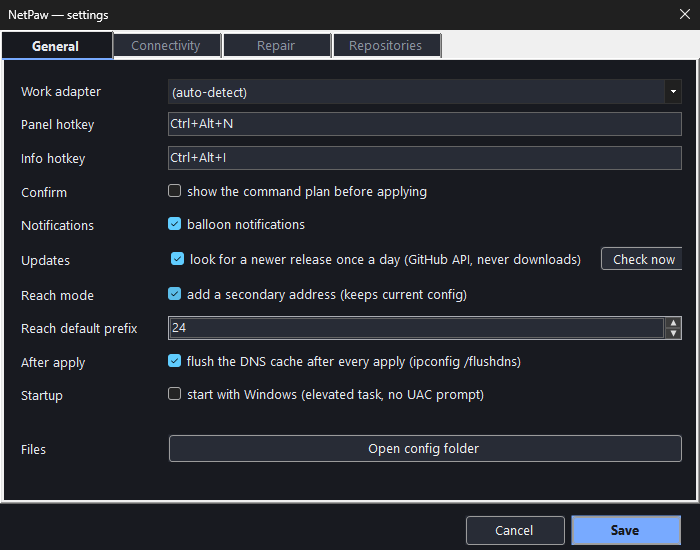
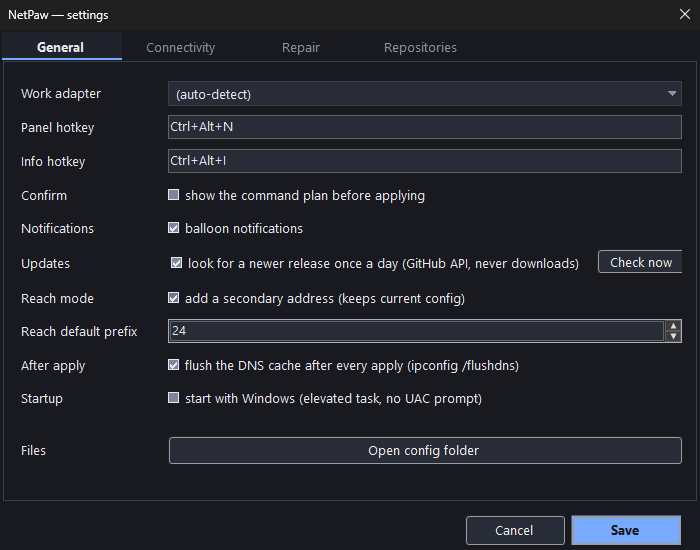
Dark chrome everywhere: title bars, tab strips, combo box, checkboxes, list scrollbars, spinners
- Native.Dress (DWM immersive dark title bar) is now applied to every
  themed form; it existed but nothing called it
- Theme.DarkTabControl paints the whole tab control (strip background and
  page frame were system-white); used by settings and the network map
- Theme.DarkComboBox owner-draws items and paints frame + arrow over the
  system button
- CheckBox/RadioButton flat with an opaque box and accent fill when
  checked (the transparent flat box rendered white)
- ListView gets the DarkMode_Explorer window theme (dark scrollbars);
  NumericUpDown spinner parts take the field colours
- README screenshots (settings, map) re-taken

diff --git a/src/NetPaw.Tray/Theme.cs b/src/NetPaw.Tray/Theme.cs
@@ -55,18 +55,26 @@ static class Theme
         c.Font = c.Font.Name == Base.Name && c.Font.Size == Base.Size ? c.Font : c switch { Label l when l.Font.Bold => c.Font, _ => Base };
         switch (c)
         {
-            case Form f: f.BackColor = Bg; f.ForeColor = Text; break;
+            case Form f:
+                f.BackColor = Bg; f.ForeColor = Text;
+                if (f.IsHandleCreated) Native.Dress(f); else f.HandleCreated += (_, _) => Native.Dress(f);
+                break;
             case Button b:
                 b.FlatStyle = FlatStyle.Flat; b.BackColor = Field; b.ForeColor = Text;
                 b.FlatAppearance.BorderColor = Border; b.FlatAppearance.MouseOverBackColor = Selection; b.FlatAppearance.MouseDownBackColor = Accent;
                 b.Cursor = Cursors.Hand; break;
             case TextBox t: t.BackColor = Field; t.ForeColor = Text; t.BorderStyle = BorderStyle.FixedSingle; break;
-            case NumericUpDown n: n.BackColor = Field; n.ForeColor = Text; n.BorderStyle = BorderStyle.FixedSingle; break;
+            case NumericUpDown n: n.BackColor = Field; n.ForeColor = Text; n.BorderStyle = BorderStyle.FixedSingle; foreach (Control part in n.Controls) { part.BackColor = Field; part.ForeColor = Text; } break;
+            case DarkComboBox: break;
             case ComboBox cb: cb.BackColor = Field; cb.ForeColor = Text; cb.FlatStyle = FlatStyle.Flat; break;
             case ListBox lb: lb.BackColor = Panel; lb.ForeColor = Text; lb.BorderStyle = BorderStyle.None; break;
             case ListView lv: DarkListView(lv); break;
-            case TabControl tc: DarkTabs(tc); break;
-            case CheckBox or RadioButton: c.ForeColor = Text; c.BackColor = Color.Transparent; break;
+            case DarkTabControl: break;
+            case CheckBox cb:
+                // Flat = the box is drawn with ForeColor/BackColor instead of the light system glyph.
+                // The box interior is BackColor (opaque, else it falls back to white) and CheckedBackColor; the tick is ForeColor.
+                cb.ForeColor = Text; cb.BackColor = Bg; cb.FlatStyle = FlatStyle.Flat; cb.FlatAppearance.BorderSize = 0; cb.FlatAppearance.CheckedBackColor = Accent; cb.FlatAppearance.MouseOverBackColor = Bg; cb.FlatAppearance.MouseDownBackColor = Bg; break;
+            case RadioButton rb: rb.ForeColor = Text; rb.BackColor = Bg; rb.FlatStyle = FlatStyle.Flat; rb.FlatAppearance.BorderSize = 0; rb.FlatAppearance.CheckedBackColor = Accent; break;
             case LinkLabel ll: ll.LinkColor = Accent; ll.ActiveLinkColor = Text; ll.VisitedLinkColor = Accent; ll.LinkBehavior = LinkBehavior.HoverUnderline; ll.BackColor = Color.Transparent; break;
             case Label l: if (l.ForeColor == SystemColors.ControlText) l.ForeColor = Text; l.BackColor = Color.Transparent; break;
             case GroupBox g: g.ForeColor = Muted; break;
@@ -83,6 +91,8 @@ static class Theme
     {
         lv.BackColor = Panel; lv.ForeColor = Text; lv.BorderStyle = BorderStyle.None;
         if (lv.OwnerDraw) return;
+        void Scrollbars() { try { Native.SetWindowTheme(lv.Handle, "DarkMode_Explorer", null); } catch (Exception ex) when (ex is DllNotFoundException or EntryPointNotFoundException) { } }
+        if (lv.IsHandleCreated) Scrollbars(); else lv.HandleCreated += (_, _) => Scrollbars();
         lv.OwnerDraw = true;
         lv.DrawColumnHeader += (_, e) =>
         {
@@ -100,19 +110,63 @@ static class Theme
         lv.ItemSelectionChanged += (_, e) => { if (e.Item?.Tag is SeparatorTag && e.IsSelected) e.Item.Selected = false; };
     }
 
-    /// <summary>TabControl ignores BackColor; owner-draw the tab strip so it matches the dark forms.</summary>
-    static void DarkTabs(TabControl tc)
+    /// <summary>
+    /// TabControl paints its strip background and the 3D page frame in system colours whatever the properties say
+    /// (owner-draw covers the tabs only). UserPaint takes the whole control: dark strip, accent underline, 1 px border.
+    /// </summary>
+    public sealed class DarkTabControl : TabControl
     {
-        if (tc.DrawMode == TabDrawMode.OwnerDrawFixed) return;
-        tc.DrawMode = TabDrawMode.OwnerDrawFixed; tc.SizeMode = TabSizeMode.Fixed; tc.ItemSize = new Size(Math.Max(tc.ItemSize.Width, 110), 26); tc.Padding = new Point(12, 4);
-        foreach (TabPage page in tc.TabPages) { page.BackColor = Bg; page.ForeColor = Text; page.UseVisualStyleBackColor = false; }
-        tc.DrawItem += (_, e) =>
+        public DarkTabControl()
         {
-            var selected = e.Index == tc.SelectedIndex;
-            using var bg = new SolidBrush(selected ? Bg : Field); e.Graphics.FillRectangle(bg, e.Bounds);
-            if (selected) { using var accent = new SolidBrush(Accent); e.Graphics.FillRectangle(accent, e.Bounds.Left, e.Bounds.Bottom - 2, e.Bounds.Width, 2); }
-            TextRenderer.DrawText(e.Graphics, tc.TabPages[e.Index].Text, selected ? new Font(Base, FontStyle.Bold) : Base, e.Bounds, selected ? Text : Muted, TextFormatFlags.HorizontalCenter | TextFormatFlags.VerticalCenter);
-        };
+            SetStyle(ControlStyles.UserPaint | ControlStyles.AllPaintingInWmPaint | ControlStyles.OptimizedDoubleBuffer | ControlStyles.ResizeRedraw, true);
+            SizeMode = TabSizeMode.Fixed; ItemSize = new Size(120, 28); Padding = new Point(12, 4);
+        }
+        protected override void OnControlAdded(ControlEventArgs e)
+        {
+            base.OnControlAdded(e);
+            if (e.Control is TabPage p) { p.BackColor = Theme.Bg; p.ForeColor = Theme.Text; p.UseVisualStyleBackColor = false; p.BorderStyle = BorderStyle.None; }
+        }
+        protected override void OnSelectedIndexChanged(EventArgs e) { base.OnSelectedIndexChanged(e); Invalidate(); }
+        protected override void OnPaint(PaintEventArgs e)
+        {
+            var g = e.Graphics; g.Clear(Theme.Bg);
+            using var border = new Pen(Theme.Border);
+            for (var i = 0; i < TabCount; i++)
+            {
+                var r = GetTabRect(i); var selected = i == SelectedIndex;
+                using var bg = new SolidBrush(selected ? Theme.Panel : Theme.Bg); g.FillRectangle(bg, r);
+                if (selected) { using var accent = new SolidBrush(Theme.Accent); g.FillRectangle(accent, r.Left, r.Bottom - 2, r.Width, 2); }
+                TextRenderer.DrawText(g, TabPages[i].Text, selected ? new Font(Theme.Base, FontStyle.Bold) : Theme.Base, r, selected ? Theme.Text : Theme.Muted, TextFormatFlags.HorizontalCenter | TextFormatFlags.VerticalCenter | TextFormatFlags.EndEllipsis);
+            }
+            var page = DisplayRectangle; g.DrawRectangle(border, page.Left - 1, page.Top - 1, page.Width + 1, page.Height + 1);
+        }
+    }
+
+    /// <summary>
+    /// ComboBox draws its arrow button and border with system colours even in FlatStyle.Flat. Items are owner-drawn;
+    /// the frame and arrow are painted over the control right after each WM_PAINT.
+    /// </summary>
+    public sealed class DarkComboBox : ComboBox
+    {
+        const int WM_PAINT = 0x000F;
+        public DarkComboBox() { FlatStyle = FlatStyle.Flat; BackColor = Theme.Field; ForeColor = Theme.Text; DrawMode = DrawMode.OwnerDrawFixed; DropDownStyle = ComboBoxStyle.DropDownList; }
+        protected override void OnDrawItem(DrawItemEventArgs e)
+        {
+            var selected = (e.State & DrawItemState.Selected) != 0;
+            using var bg = new SolidBrush(selected ? Theme.Selection : Theme.Field); e.Graphics.FillRectangle(bg, e.Bounds);
+            if (e.Index >= 0) TextRenderer.DrawText(e.Graphics, GetItemText(Items[e.Index]), Font, Rectangle.Inflate(e.Bounds, -2, 0), Theme.Text, TextFormatFlags.Left | TextFormatFlags.VerticalCenter | TextFormatFlags.EndEllipsis);
+        }
+        protected override void WndProc(ref Message m)
+        {
+            base.WndProc(ref m);
+            if (m.Msg != WM_PAINT || !IsHandleCreated) return;
+            using var g = Graphics.FromHwnd(Handle);
+            var button = new Rectangle(Width - 18, 1, 17, Height - 2);
+            using var bg = new SolidBrush(Theme.Field); g.FillRectangle(bg, button);
+            using var pen = new Pen(Theme.Border); g.DrawRectangle(pen, 0, 0, Width - 1, Height - 1);
+            using var arrow = new SolidBrush(Theme.Muted); var cx = button.Left + button.Width / 2; var cy = button.Top + button.Height / 2;
+            g.FillPolygon(arrow, [new Point(cx - 4, cy - 2), new Point(cx + 4, cy - 2), new Point(cx, cy + 3)]);
+        }
     }
 
     sealed class SeparatorTag { public static readonly SeparatorTag Instance = new(); }

diff --git a/src/NetPaw.Tray/SettingsForm.cs b/src/NetPaw.Tray/SettingsForm.cs
@@ -16,7 +16,7 @@ sealed class SettingsForm : Form
         MinimizeBox = false; MaximizeBox = false; ShowInTaskbar = false; ClientSize = new Size(700, 520);
 
         // Tabs keep the dialog at a laptop-friendly height (the one-column version had grown to 890 px).
-        var tabs = new TabControl { Dock = DockStyle.Fill };
+        var tabs = new Theme.DarkTabControl { Dock = DockStyle.Fill };
         TableLayoutPanel Tab(string title)
         {
             var page = new TabPage(title) { BackColor = Theme.Bg, Padding = new Padding(4) };
@@ -29,7 +29,7 @@ sealed class SettingsForm : Form
         void RowIn(TableLayoutPanel g, string label, Control c) { g.Controls.Add(new Label { Text = label, Anchor = AnchorStyles.Left, AutoSize = true, Margin = new Padding(0, 8, 0, 8) }); c.Anchor = AnchorStyles.Left | AnchorStyles.Right; c.Margin = new Padding(0, 5, 0, 5); g.Controls.Add(c); }
         void Row(string label, Control c) => RowIn(grid, label, c);
 
-        var adapter = new ComboBox { DropDownStyle = ComboBoxStyle.DropDownList };
+        var adapter = new Theme.DarkComboBox();
         adapter.Items.Add("(auto-detect)");
         foreach (var a in app.Service.GetAdapters()) adapter.Items.Add(a.Name);
         adapter.SelectedIndex = s.WorkAdapter is null ? 0 : Math.Max(0, adapter.Items.IndexOf(s.WorkAdapter));

diff --git a/src/NetPaw.Tray/Native.cs b/src/NetPaw.Tray/Native.cs
@@ -26,6 +26,10 @@ static partial class Native
     public static partial uint GetWindowThreadProcessId(IntPtr hWnd, IntPtr lpdwProcessId);
     [LibraryImport("kernel32.dll")]
     public static partial uint GetCurrentThreadId();
+    /// <summary>"DarkMode_Explorer" gives a ListView/TreeView dark scrollbars on Windows 10 1809+ (documented API, documented theme name).</summary>
+    [LibraryImport("uxtheme.dll", EntryPoint = "SetWindowTheme", StringMarshalling = StringMarshalling.Utf16)]
+    public static partial int SetWindowTheme(IntPtr hWnd, string? pszSubAppName, string? pszSubIdList);
+
     [LibraryImport("user32.dll")] [return: MarshalAs(UnmanagedType.Bool)]
     public static partial bool AttachThreadInput(uint idAttach, uint idAttachTo, [MarshalAs(UnmanagedType.Bool)] bool fAttach);
     [LibraryImport("user32.dll")] [return: MarshalAs(UnmanagedType.Bool)]

diff --git a/src/NetPaw.Tray/NetworkMapForm.cs b/src/NetPaw.Tray/NetworkMapForm.cs
@@ -14,7 +14,7 @@ sealed class NetworkMapForm : Form
     readonly TrayApp _app;
     readonly AdapterInfo _adapter;
     readonly IArpProvider _arp = new WindowsArpProvider();
-    readonly TabControl _tabs = new() { Dock = DockStyle.Fill };
+    readonly Theme.DarkTabControl _tabs = new() { Dock = DockStyle.Fill };
     readonly ListView _hosts = new() { Dock = DockStyle.Fill, View = View.Details, FullRowSelect = true, BorderStyle = BorderStyle.None, ShowGroups = true };
     readonly ListView _routers = new() { Dock = DockStyle.Fill, View = View.Details, FullRowSelect = true, BorderStyle = BorderStyle.None };
     readonly ListView _switch = new() { Dock = DockStyle.Fill, View = View.Details, FullRowSelect = true, BorderStyle = BorderStyle.None };
